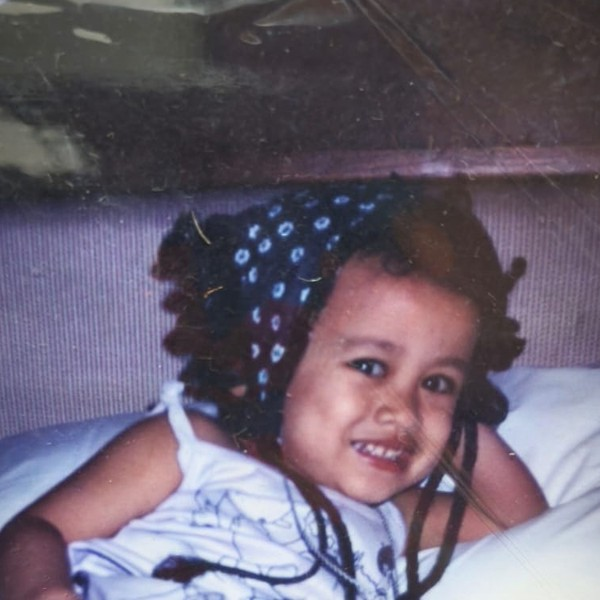
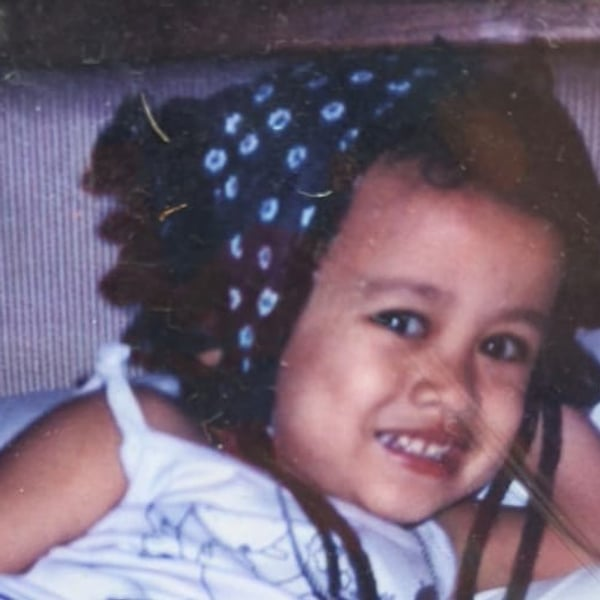
feat: center childhood photo crops, update ceremony wording to Aqd an-Nikāḥ, and add clean path-based story toggle

diff --git a/server/routes/public.js b/server/routes/public.js
@@ -4,7 +4,7 @@ const path = require('path');
 const fs = require('fs');
 const crypto = require('crypto');
 const multer = require('multer');
-const { db } = require('../db');
+const { db, getSetting } = require('../db');
 const content = require('../lib/content');
 const { hasLinkOrCode, cleanText, toInt, clamp } = require('../lib/validate');
 const { rateLimit } = require('../lib/security');
@@ -74,11 +74,25 @@ function getLang(req) {
   return 'id';
 }
 
-// Helper to determine whether Kisah Kami / Story section is shown
-function getShowStory(req) {
-  if (req.query.story === '1' || req.query.story === 'true') return true;
-  if (req.query.story === '0' || req.query.story === 'false' || req.query.nostory === '1') return false;
+// Helper to check global Kisah Kami setting from SQLite database (with fallback to content.json)
+function getGlobalShowStory() {
+  const val = getSetting('show_story', null);
+  if (val !== null && val !== undefined) {
+    return String(val) === '1' || String(val) === 'true';
+  }
   return content.showStory !== undefined ? content.showStory : false;
+}
+
+// Helper to determine whether Kisah Kami / Story section is shown (supports number codes 0 and 1 via ?story= or ?s=)
+function getShowStory(req) {
+  const q = req.query.story !== undefined ? req.query.story : req.query.s;
+  if (q !== undefined) {
+    const s = String(q).trim().toLowerCase();
+    if (s === '1' || s === 'true') return true;
+    if (s === '0' || s === 'false') return false;
+  }
+  if (req.query.nostory === '1') return false;
+  return getGlobalShowStory();
 }
 
 function translator(lang) {
@@ -184,7 +198,7 @@ router.post('/api/rsvp', rsvpLimiter, handleRsvpUpload, (req, res) => {
       const parts = refUrl.pathname.split('/').filter(Boolean);
       if (parts.length > 0) {
         const lastPart = parts[parts.length - 1];
-        if (lastPart !== 'resepsi' && lastPart !== 'syukuran' && lastPart !== 'admin') {
+        if (lastPart !== 'resepsi' && lastPart !== 'syukuran' && lastPart !== 'admin' && lastPart !== '0' && lastPart !== '1') {
           guestSlug = lastPart;
         }
       }
@@ -309,16 +323,12 @@ router.get('/api/voice-notes/:guestSlug', (req, res) => {
   res.sendFile(filePath);
 });
 
-// Root: Generic invitation preview or query-based guest link
-router.get('/', (req, res) => {
-  const querySlug = req.query.to || req.query.guest || req.query.slug;
-  if (querySlug) {
-    req.params.slug = querySlug;
-    return renderGuestInvitation(req, res, null);
-  }
+// Helper for generic invitation preview
+function renderGenericInvitation(req, res, forcedTheme, forcedStory) {
   const lang = getLang(req);
-  const theme = req.query.theme === 'reception' ? 'reception' : 'akad';
+  const theme = forcedTheme || (req.query.theme === 'reception' ? 'reception' : 'akad');
   const cdTarget = theme === 'reception' ? content.receptionCountdownTarget : content.countdownTarget;
+  const showStory = forcedStory !== undefined ? forcedStory : getShowStory(req);
 
   res.render('invitation', {
     lang,
@@ -329,37 +339,53 @@ router.get('/', (req, res) => {
     countdownTarget: cdTarget,
     guest: null,
     existingRsvp: null,
-    showStory: getShowStory(req)
+    showStory
   });
+}
+
+// Explicit path routes for Kisah Kami toggle:
+// 1. Generic Akad: /0 (no story) and /1 (with story)
+router.get('/0', (req, res) => renderGenericInvitation(req, res, null, false));
+router.get('/1', (req, res) => renderGenericInvitation(req, res, null, true));
+
+// 2. Guest Akad: /0/:slug (no story) and /1/:slug (with story)
+router.get('/0/:slug', (req, res) => renderGuestInvitation(req, res, null, false));
+router.get('/1/:slug', (req, res) => renderGuestInvitation(req, res, null, true));
+
+// 3. Syukuran Generic: /syukuran/0 (no story) and /syukuran/1 (with story)
+router.get('/syukuran/0', (req, res) => renderGenericInvitation(req, res, 'reception', false));
+router.get('/syukuran/1', (req, res) => renderGenericInvitation(req, res, 'reception', true));
+
+// 4. Syukuran Guest: /syukuran/0/:slug (no story) and /syukuran/1/:slug (with story)
+router.get('/syukuran/0/:slug', (req, res) => renderGuestInvitation(req, res, 'reception', false));
+router.get('/syukuran/1/:slug', (req, res) => renderGuestInvitation(req, res, 'reception', true));
+
+// 5. Root: Standard generic preview or query-based guest link
+router.get('/', (req, res) => {
+  const querySlug = req.query.to || req.query.guest || req.query.slug;
+  if (querySlug) {
+    req.params.slug = querySlug;
+    return renderGuestInvitation(req, res, null);
+  }
+  return renderGenericInvitation(req, res, null);
 });
 
-// Dedicated Syukuran Generic Preview or query-based guest link: /syukuran
+// 6. Dedicated Syukuran Generic Preview: /syukuran
 router.get('/syukuran', (req, res) => {
   const querySlug = req.query.to || req.query.guest || req.query.slug;
   if (querySlug) {
     req.params.slug = querySlug;
     return renderGuestInvitation(req, res, 'reception');
   }
-  const lang = getLang(req);
-  res.render('invitation', {
-    lang,
-    theme: 'reception',
-    t: translator(lang),
-    content,
-    dict: content.dict,
-    countdownTarget: content.receptionCountdownTarget,
-    guest: null,
-    existingRsvp: null,
-    showStory: getShowStory(req)
-  });
+  return renderGenericInvitation(req, res, 'reception');
 });
 
-// Dedicated Syukuran Guest URL: /syukuran/:slug
+// 7. Dedicated Syukuran Guest URL: /syukuran/:slug
 router.get('/syukuran/:slug', (req, res) => {
   renderGuestInvitation(req, res, 'reception');
 });
 
-// Legacy /resepsi backwards compatibility redirects: /resepsi -> /syukuran
+// 8. Legacy /resepsi backwards compatibility redirects: /resepsi -> /syukuran
 router.get('/resepsi', (req, res) => {
   const query = req.url.includes('?') ? req.url.slice(req.url.indexOf('?')) : '';
   res.redirect(301, '/syukuran' + query);
@@ -370,12 +396,12 @@ router.get('/resepsi/:slug', (req, res) => {
   res.redirect(301, '/syukuran/' + encodeURIComponent(req.params.slug) + query);
 });
 
-// Guest specific link: /:slug
+// 9. Standard Guest specific link: /:slug
 router.get('/:slug', (req, res) => {
   renderGuestInvitation(req, res, null);
 });
 
-function renderGuestInvitation(req, res, forcedTheme) {
+function renderGuestInvitation(req, res, forcedTheme, forcedStory) {
   const slug = String(req.params.slug || '').trim().toLowerCase();
   const lang = getLang(req);
   const t = translator(lang);
@@ -416,9 +442,8 @@ function renderGuestInvitation(req, res, forcedTheme) {
   }
 
   const cdTarget = theme === 'reception' ? content.receptionCountdownTarget : content.countdownTarget;
-
-  // Fetch existing RSVP if any
   const existingRsvp = db.prepare('SELECT * FROM rsvps WHERE guest_id = ?').get(guest.id);
+  const showStory = forcedStory !== undefined ? forcedStory : getShowStory(req);
 
   res.render('invitation', {
     lang,
@@ -429,7 +454,7 @@ function renderGuestInvitation(req, res, forcedTheme) {
     countdownTarget: cdTarget,
     guest,
     existingRsvp,
-    showStory: getShowStory(req)
+    showStory
   });
 }
 

diff --git a/server/routes/admin.js b/server/routes/admin.js
@@ -3,7 +3,7 @@ const router = express.Router();
 const multer = require('multer');
 const QRCode = require('qrcode');
 const XLSX = require('xlsx');
-const { db, tx } = require('../db');
+const { db, getSetting, setSetting, tx } = require('../db');
 const content = require('../lib/content');
 const { uniqueSlug, isValidSlug, slugify, RESERVED } = require('../lib/slug');
 const { cleanText, toInt, normalizePhone, yes, clamp } = require('../lib/validate');
@@ -122,6 +122,9 @@ router.get('/guests', (req, res) => {
     LEFT JOIN rsvps r ON g.id = r.guest_id
   `).get();
 
+  const currentStoryVal = getSetting('show_story', content.showStory ? '1' : '0');
+  const showStory = currentStoryVal === '1';
+
   res.render('admin/guests', {
     guests,
     groups,
@@ -134,8 +137,23 @@ router.get('/guests', (req, res) => {
     error: req.query.error || null,
     host: req.get('host'),
     protocol: req.protocol,
-    couple: content.couple
+    couple: content.couple,
+    showStory,
+    storySettingValue: currentStoryVal
   });
+});
+
+// Toggle Global Kisah Kami Setting (Code 0 or 1)
+router.post('/settings/story', sameOrigin, (req, res) => {
+  let newVal;
+  if (req.body && req.body.value !== undefined) {
+    newVal = (req.body.value === '1' || req.body.value === 1 || req.body.value === true || req.body.value === 'true') ? '1' : '0';
+  } else {
+    const cur = getSetting('show_story', content.showStory ? '1' : '0');
+    newVal = cur === '1' ? '0' : '1';
+  }
+  setSetting('show_story', newVal);
+  res.json({ ok: true, showStory: newVal === '1', value: newVal });
 });
 
 // Add Single Guest POST

diff --git a/public/css/admin.css b/public/css/admin.css
@@ -132,6 +132,68 @@ body.admin-body {
   color: #B71C1C;
 }
 
+/* Quick Feature Controls Banner (e.g. Kisah Kami 0/1 Toggle) */
+.admin-feature-card {
+  background: var(--admin-card);
+  border: 1px solid var(--admin-border);
+  border-radius: var(--radius-md);
+  padding: 1rem 1.35rem;
+  margin-bottom: 1.35rem;
+  display: flex;
+  align-items: center;
+  justify-content: space-between;
+  gap: 1.25rem;
+  box-shadow: 0 1px 4px rgba(0,0,0,0.03);
+}
+@media (max-width: 768px) {
+  .admin-feature-card {
+    flex-direction: column;
+    align-items: flex-start;
+  }
+}
+.admin-feature-info {
+  flex: 1;
+}
+.admin-feature-badge-row {
+  display: flex;
+  align-items: center;
+  gap: 0.65rem;
+  margin-bottom: 0.35rem;
+  flex-wrap: wrap;
+}
+.admin-feature-title {
+  font-size: 0.96rem;
+  font-weight: 700;
+  color: var(--admin-text);
+  margin: 0;
+}
+.admin-feature-desc {
+  font-size: 0.82rem;
+  color: var(--admin-text-sub);
+  margin: 0;
+  line-height: 1.45;
+}
+.badge-code {
+  font-family: monospace;
+  font-weight: 700;
+  padding: 0.2rem 0.55rem;
+  border-radius: 4px;
+  font-size: 0.8rem;
+  display: inline-flex;
+  align-items: center;
+  gap: 0.35rem;
+}
+.badge-code-active {
+  background: #E8F5E9;
+  color: #1B5E20;
+  border: 1px solid #A5D6A7;
+}
+.badge-code-inactive {
+  background: #FFF3E0;
+  color: #E65100;
+  border: 1px solid #FFE0B2;
+}
+
 /* Interactive Stat KPI Cards */
 .admin-stats-grid {
   display: grid;

diff --git a/server/lib/security.js b/server/lib/security.js
@@ -30,7 +30,7 @@ function parseCookies(req) {
 
 // Changing ADMIN_PASSWORD or SESSION_SECRET logs every admin out.
 const SECRET = process.env.SESSION_SECRET || crypto.randomBytes(32).toString('hex');
-const ADMIN_PASSWORD = process.env.ADMIN_PASSWORD || '';
+const ADMIN_PASSWORD = (process.env.ADMIN_PASSWORD || '').trim().replace(/^["']|["']$/g, '');
 const SESSION_HOURS = 12;
 const COOKIE = 'undangan_admin';
 
@@ -45,8 +45,9 @@ function safeEqual(a, b) {
 function checkPassword(input) {
   if (!ADMIN_PASSWORD) return false;
   // compare hashes so length differences don't leak through timing
+  const cleanInput = String(input || '').trim().replace(/^["']|["']$/g, '');
   const h = (s) => crypto.createHash('sha256').update(String(s)).digest('hex');
-  return safeEqual(h(input), h(ADMIN_PASSWORD));
+  return safeEqual(h(cleanInput), h(ADMIN_PASSWORD));
 }
 
 function setSession(req, res) {

diff --git a/server/lib/slug.js b/server/lib/slug.js
@@ -2,7 +2,7 @@
 const { db } = require('../db');
 
 // Paths used by the app itself; a guest can never get these as a slug.
-const RESERVED = new Set(['admin', 'api', 'css', 'js', 'img', 'fonts', 'calendar.ics', 'favicon.ico', 'robots.txt', 'health', 'resepsi', 'syukuran']);
+const RESERVED = new Set(['admin', 'api', 'css', 'js', 'img', 'fonts', 'calendar.ics', 'favicon.ico', 'robots.txt', 'health', 'resepsi', 'syukuran', '0', '1']);
 
 // Honorifics are stored in the separate `title` column, so strip them from the slug.
 const TITLE_RE = /^((bpk|bapak|pak|ibu|bu|mr|mrs|ms|miss|sdr|sdri|saudara|saudari|dr|drs|dra|ir|hj|h|prof|kak|mas|mbak|tn|ny|nn)\.?\s+)+/i;
